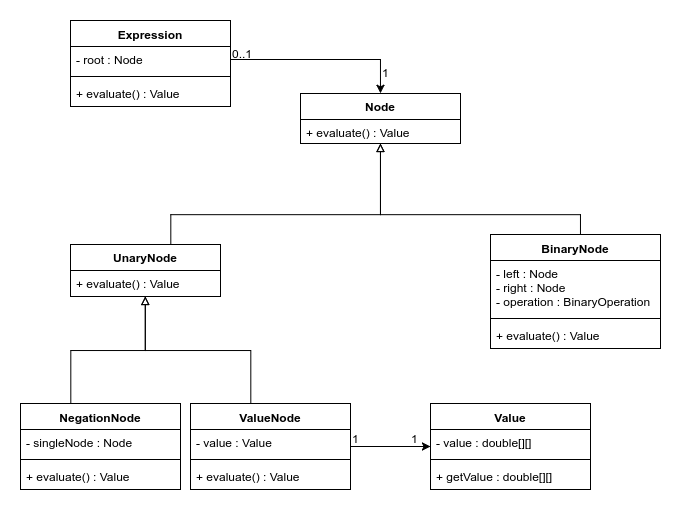
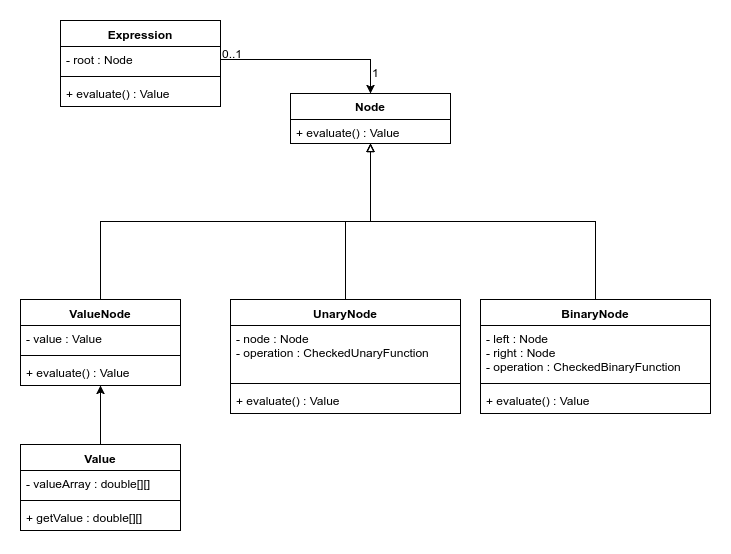
update class diagram

diff --git a/ArithmeticVisualizer/src/main/java/av/arithmeticvisualizer/Value.java b/ArithmeticVisualizer/src/main/java/av/arithmeticvisualizer/Value.java
@@ -2,18 +2,18 @@ package av.arithmeticvisualizer;
 
 public class Value {
     
-    private double[][] value;
+    private double[][] valueArray;
     private int m;
     private int n;
 
     public Value(double[][] value) {
-        this.value = value;
+        this.valueArray = value;
         this.m = value.length;
         this.n = value[0].length;
     }
 
     public double[][] getValue() {
-        return value;
+        return valueArray;
     }
 
     public int getM() {
